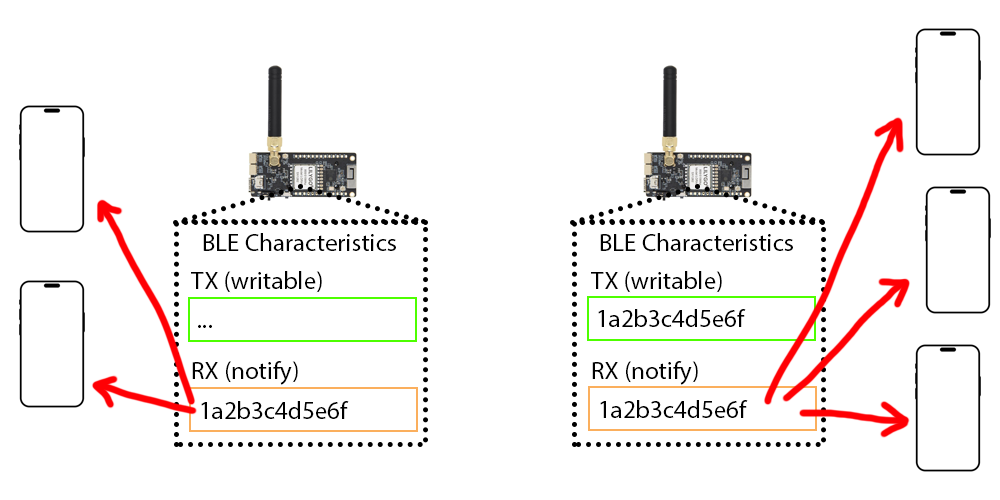
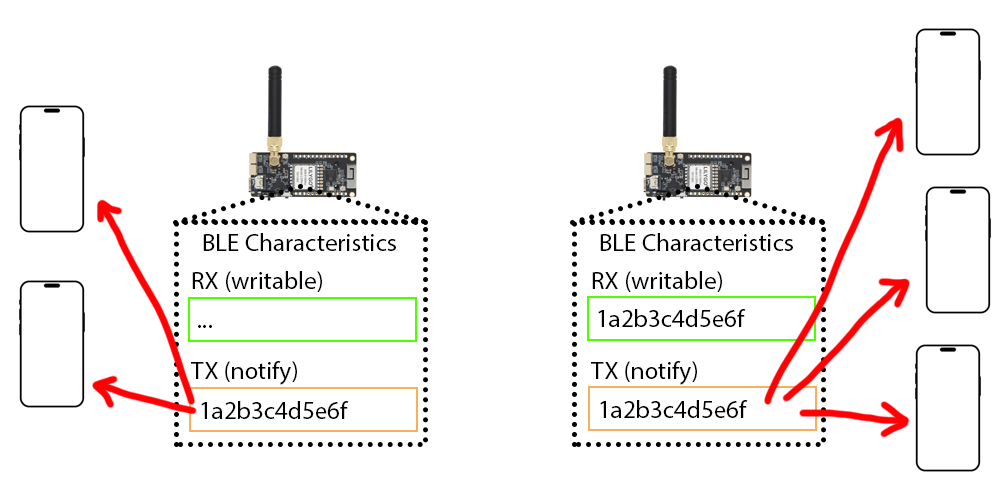
Swapped tx and rx to correct naming conventions

diff --git a/README.md b/README.md
@@ -23,15 +23,15 @@ Bluetooth is used for short range communication between phones and radios, while
 
 ## How a message is sent
 
-A Bluetooth-connected phone sets the TX characteristic as the value of its packet.
+A Bluetooth-connected phone sets the RX characteristic as the value of its packet.
 
 ![Diagram showing an arrow from a phone to a radio](./media/sending_step1.png?raw=true)
 
-Then, the packet is sent via LoRa to other radios, which sets it as the RX characteristic (this also needs to be done for the device sending it.)
+Then, the packet is sent via LoRa to other radios, which sets it as the TX characteristic (this also needs to be done for the device sending it.)
 
 ![Diagram showing radio sending packet to other radio](./media/sending_step2.png?raw=true)
 
-Finally, all the other devices connected via Bluetooth will be notified of the state change on RX and, hence, receive the packet data.
+Finally, all the other devices connected via Bluetooth will be notified of the state change on TX and, hence, receive the packet data.
 
 ![Diagram showing radios sending packet to all connected phones](./media/sending_step3.png?raw=true)
 
@@ -68,8 +68,8 @@ The data sent over LoRa will have 4 bytes of data appended to the front to ident
 | Key               | UUID                                 | Allowed Operations |
 |-------------------|--------------------------------------|--------------------|
 | Primary Service   | 82480000-9a25-49fc-99be-2c16d1492d35 |                    |
-| TX Characteristic | 82480001-9a25-49fc-99be-2c16d1492d35 | Write              |
-| RX Characteristic | 82480002-9a25-49fc-99be-2c16d1492d35 | Notify             |
+| TX Characteristic | 82480001-9a25-49fc-99be-2c16d1492d35 | Notify             |
+| RX Characteristic | 82480002-9a25-49fc-99be-2c16d1492d35 | Write              |
 
 # Example Client
 
@@ -101,11 +101,11 @@ async function connect() {
     const rxCharacteristic = await service.getCharacteristic(rxCharacteristicUuid);
 
     console.log('Sending data...');
-    txCharacteristic.writeValue(new Uint8Array([0x01, 0x02, 0x03]));
+    rxCharacteristic.writeValue(new Uint8Array([0x01, 0x02, 0x03]));
 
     console.log('Enabling RX notifications...');
-    rxCharacteristic.startNotifications();
-    rxCharacteristic.addEventListener('characteristicvaluechanged', (event) => {
+    txCharacteristic.startNotifications();
+    txCharacteristic.addEventListener('characteristicvaluechanged', (event) => {
       const value = event.target.value;
       console.log('Received:', value);
     });
